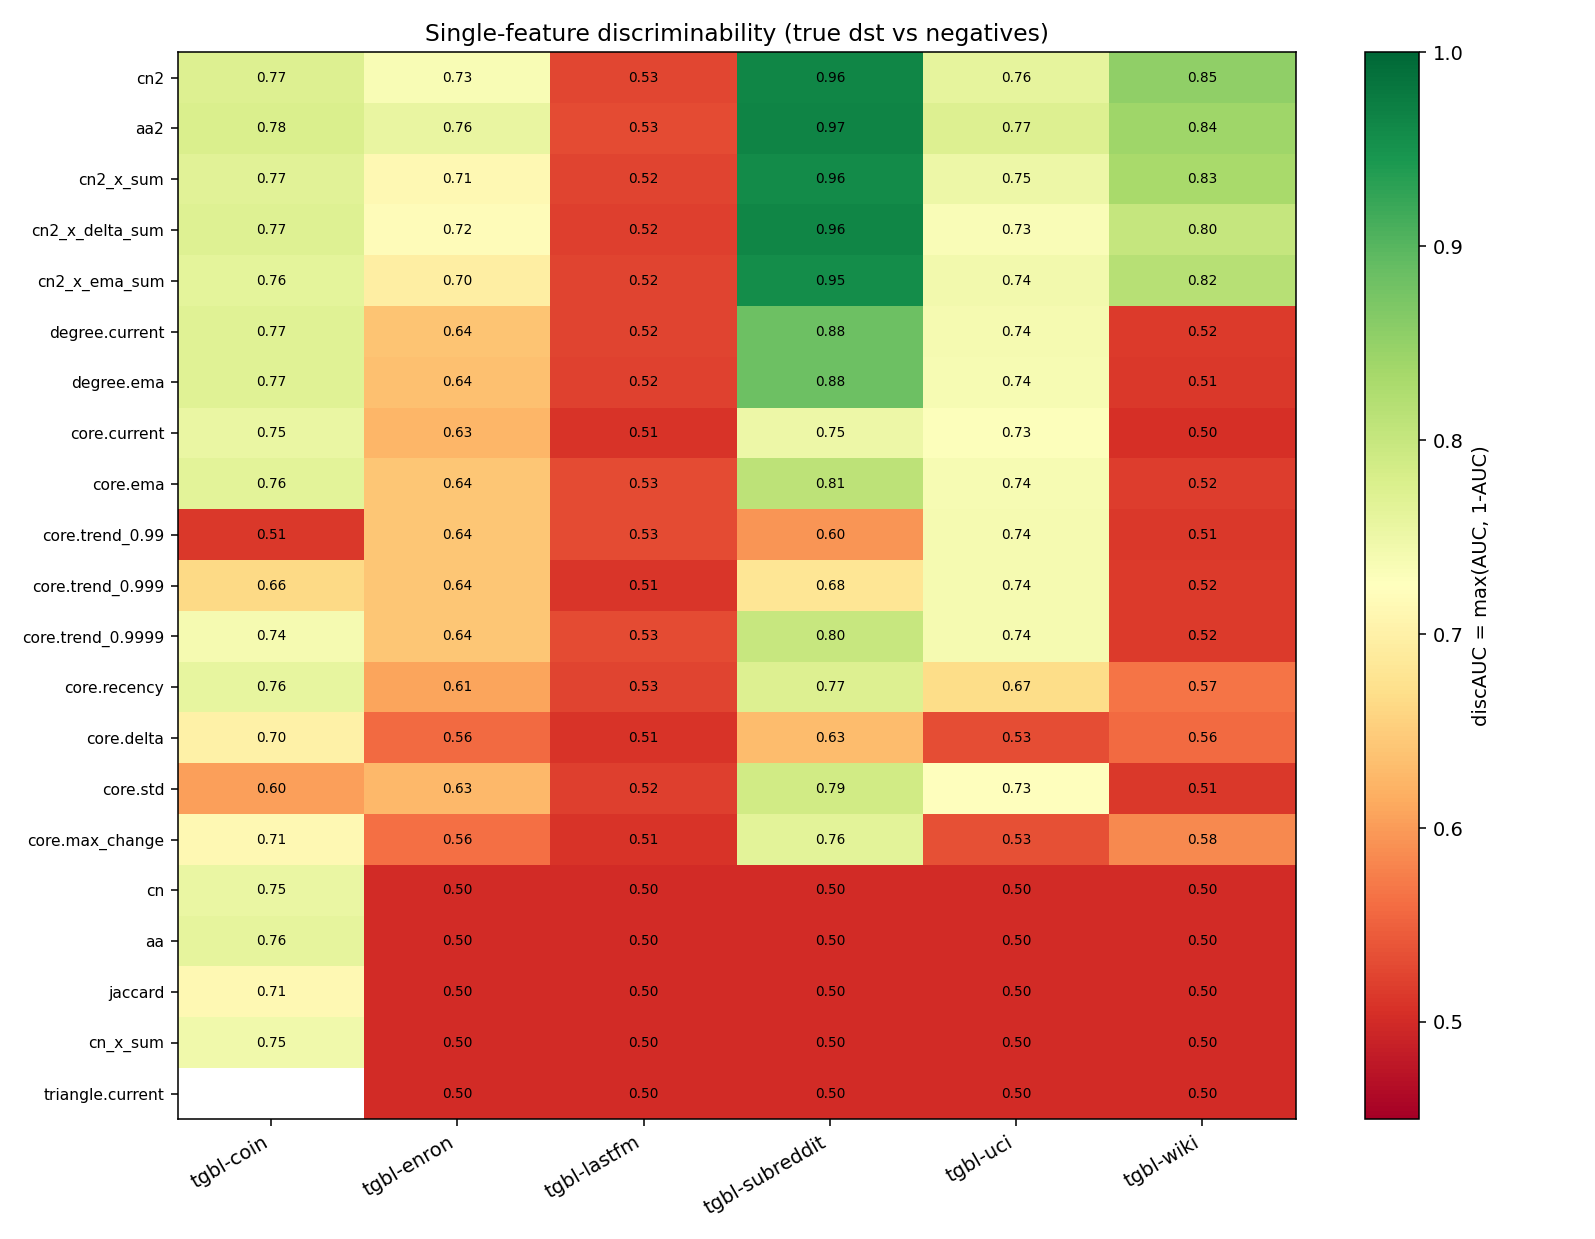
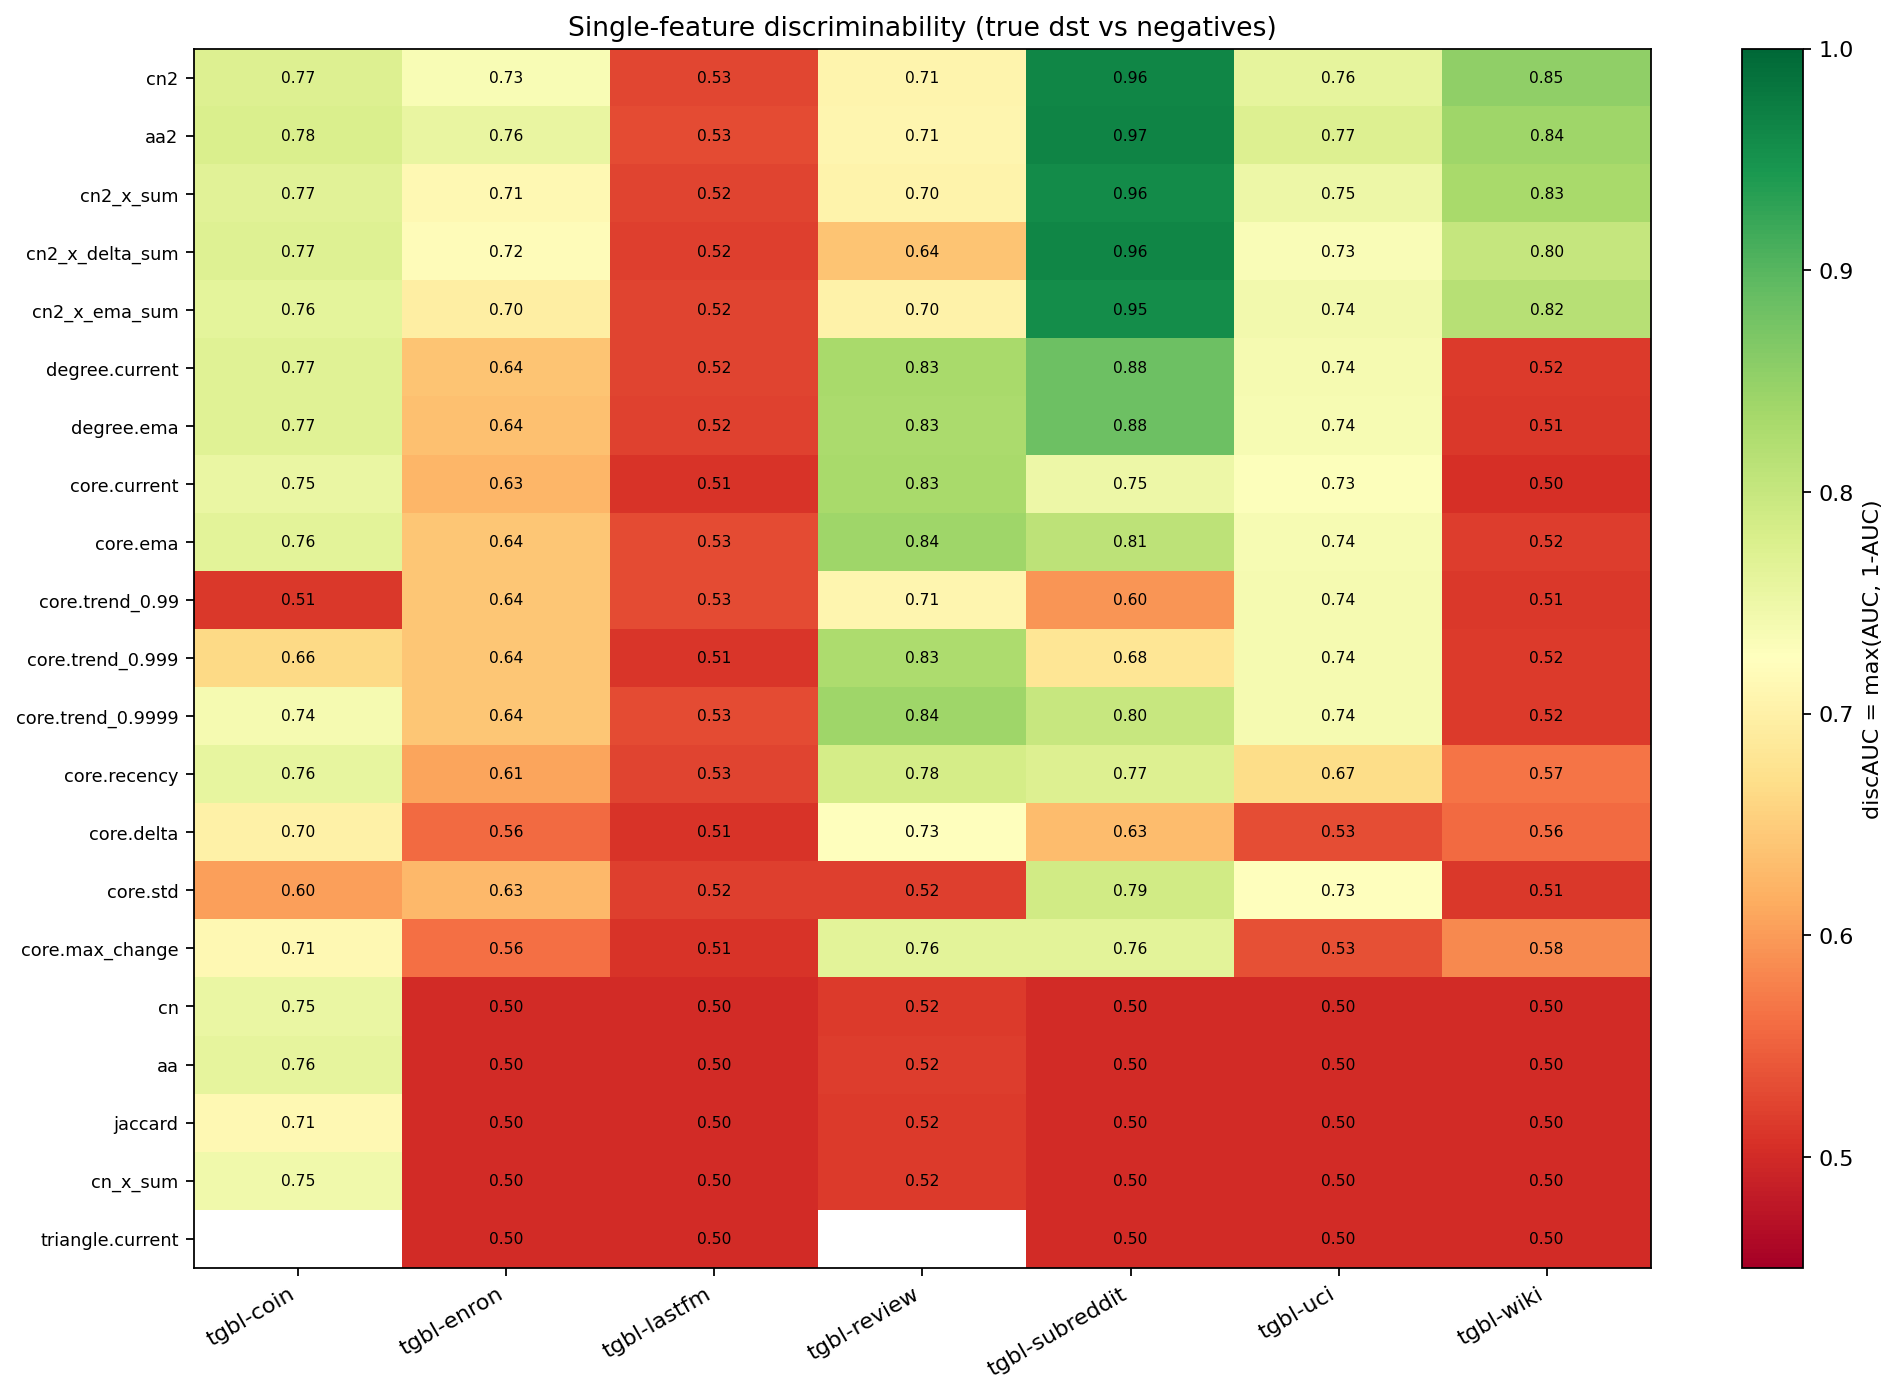
figures: unify on .drawio (editable) + .pdf (LaTeX) pairs; switch all \includegraphics to .pdf
Workflow goal (per user request): every coloured figure ships an
editable .drawio source AND a compiled .pdf next to it.  main.tex
includes only .pdf, so the user can edit drawio offline, export to
PDF over the existing file, and recompile without touching .tex.

- fig_running:        .tex -> .pdf (rendered standalone via tectonic);
                      main.tex: \input -> \includegraphics{...pdf}
- fig_arch:           .tex -> .pdf (rendered standalone via tectonic);
                      main.tex: \input -> \includegraphics{...pdf}
- fig_discauc_heatmap: .png -> .pdf (re-rendered from matplotlib for
                      vector output); main.tex updated.
- fig_gains:          inline TikZ block in main.tex externalised to
                      figures/fig_gains.tex, rendered to .pdf, and the
                      ~50-line inline block replaced with
                      \includegraphics{figures/fig_gains.pdf}.
                      Bar chart also now includes the enron 3-seed
                      bar (+0.7 pts) alongside uci star (+0.6).
- fig_discauc.pdf already existed; .drawio companion added earlier.

Table column-width audit (single vs two-column):
  tab:discauc (5 cols)       single \begin{table}        OK
  tab:complexity (3 cols)    single                         OK
  tab:vs (3 cols)            single                         OK
  tab:datasets (5 cols)      single                         OK
  tab:swapin (7 cols)        \begin{table*} (full width)  CORRECT
[…]

diff --git a/paper_ol/figures/fig_gains.tex b/paper_ol/figures/fig_gains.tex
@@ -1,0 +1,56 @@
+% Figure 5 — per-dataset Hawkeye swap-in gain over the DyGFormer (cooccur)
+% baseline.  Now also includes enron 3-seed (+0.7 pts).
+%
+% Bars colour-coded by sign:
+%   teal!*  = gain (different darknesses for legacy vs multi-seed verified)
+%   orange!*= loss (boundary datasets)
+% Stars (★) mark multi-seed-validated entries.
+\begin{tikzpicture}[every node/.style={font=\footnotesize},x=0.4cm,y=0.7cm]
+  % --- grid + axis ---
+  \foreach \x in {-8,-4,0,4,8}{%
+    \draw[gray!25,very thin] (\x,0.4) -- (\x,-5.8);%
+    \node[gray!55] at (\x,0.65) {\tiny $\x$};}
+  \draw[gray!60, line width=0.6pt] (0,0.4) -- (0,-5.8);
+  \node[anchor=south] at (0,0.85) {\small Hawkeye swap-in gain over cooccur (pts)};
+
+  % CanParl +9.0 (current code, single seed — multi-seed sweep running)
+  \fill[teal!75]  (0,-0.15) rectangle (9.0,-0.65);
+  \node[anchor=west,white] at (0.2,-0.4) {\textbf{+9.0}};
+  \node[anchor=east] at (-0.3,-0.4) {\texttt{CanParl}};
+  \node[anchor=west,gray!60] at (9.2,-0.4) {\scriptsize\ (current code, 1 seed)};
+
+  % wiki +2.8 (legacy single-seed)
+  \fill[teal!55]  (0,-1.05) rectangle (2.8,-1.55);
+  \node[anchor=west] at (3.0,-1.3) {\textbf{+2.8}};
+  \node[anchor=east] at (-0.3,-1.3) {\texttt{wiki}};
+  \node[anchor=west,gray!60] at (4.2,-1.3) {\scriptsize\ (legacy, 1 seed)};
+
+  % enron +0.7 (3-seed multi-seed verified)
+  \fill[teal!95]  (0,-1.95) rectangle (0.7,-2.45);
+  \node[anchor=west] at (0.9,-2.2) {\textbf{+0.7}};
+  \node[anchor=east] at (-0.3,-2.2) {\texttt{enron}$^{\bigstar}$};
+  \node[anchor=west,gray!60] at (2.6,-2.2) {\scriptsize\ (3-seed, std$=$0.001)};
+
+  % uci +0.6 (3-seed multi-seed verified)
+  \fill[teal!95]  (0,-2.85) rectangle (0.6,-3.35);
+  \node[anchor=west] at (0.8,-3.1) {\textbf{+0.6}};
+  \node[anchor=east] at (-0.3,-3.1) {\texttt{uci}$^{\bigstar}$};
+  \node[anchor=west,gray!60] at (2.5,-3.1) {\scriptsize\ (3-seed, gap$>$6$\sigma$)};
+
+  % USLegis -5.4 (boundary)
+  \fill[orange!75]  (-5.4,-3.75) rectangle (0,-4.25);
+  \node[anchor=east] at (-5.6,-4.0) {\textbf{$-5.4$}};
+  \node[anchor=west] at (0.3,-4.0) {\texttt{USLegis} (near-complete)};
+
+  % mooc -8.4 (legacy)
+  \fill[orange!55]  (-8.4,-4.65) rectangle (0,-5.15);
+  \node[anchor=east] at (-8.6,-4.9) {\textbf{$-8.4$}};
+  \node[anchor=west] at (0.3,-4.9) {\texttt{mooc} (legacy, 1 seed)};
+
+  % --- legend ---
+  \fill[teal!75] (-9.5,-5.75) rectangle (-8.7,-5.55);
+  \node[anchor=west] at (-8.5,-5.65) {\scriptsize gain on non-degenerate};
+  \fill[orange!75] (-4.5,-5.75) rectangle (-3.7,-5.55);
+  \node[anchor=west] at (-3.5,-5.65) {\scriptsize loss on boundary};
+  \node[anchor=west,gray!50!black] at (1.5,-5.65) {\scriptsize $\bigstar$ = multi-seed validated};
+\end{tikzpicture}

diff --git a/paper_ol/main.tex b/paper_ol/main.tex
@@ -156,7 +156,7 @@ both cheap to read and far more discriminative.
 
 \begin{figure}[t]
 \centering
-\input{figures/fig_running}
+\includegraphics[width=0.98\columnwidth]{figures/fig_running.pdf}
 \caption{Running example (used throughout the paper). In a corporate email
 network, \emph{Alice} ($u$) and \emph{Bob} ($v$) have never emailed each
 other, so the 1-hop common-neighbour count is $\mathrm{CN}=0$; a
@@ -472,7 +472,7 @@ no better than random ($0.50$); 2-hop bridges reach discAUC $0.73$--$0.96$.}
 
 \begin{figure*}[t]
 \centering
-\includegraphics[width=0.86\textwidth]{figures/fig_discauc_heatmap.png}
+\includegraphics[width=0.86\textwidth]{figures/fig_discauc_heatmap.pdf}
 \caption{Full single-feature discriminability sweep: $21$ candidate
 features (rows) $\times$ $6$ datasets (columns). The bottom block
 (\texttt{cn}, \texttt{aa}, \texttt{jaccard}, \texttt{cn\_x\_sum},
@@ -581,7 +581,7 @@ link score.
 
 \begin{figure*}[t]
 \centering
-\input{figures/fig_arch}
+\includegraphics[width=0.96\textwidth]{figures/fig_arch.pdf}
 \caption{\method per-batch timing, threaded with the Alice/Bob running
 example. Gray boxes are CPU work (Cohesion Cache + slot-feature
 extraction), blue boxes are GPU work (Cohesion Slot Encoder + unchanged
@@ -1076,49 +1076,7 @@ is clearly above $0.5$.
 
 \begin{figure}[t]
 \centering
-\begin{tikzpicture}[every node/.style={font=\footnotesize},x=0.4cm,y=0.7cm]
-  % grid + axis
-  \foreach \x in {-8,-4,0,4,8}{%
-    \draw[gray!25,very thin] (\x,0.4) -- (\x,-5.0);%
-    \node[gray!55] at (\x,0.65) {\tiny $\x$};}
-  \draw[gray!60, line width=0.6pt] (0,0.4) -- (0,-5.0);
-  \node[anchor=south] at (0,0.85) {\small \method swap-in gain over cooccur (pts)};
-
-  % bars: each row -- (y, gain, color, label, note)
-  % CanParl +9.0 (current code, single seed)
-  \fill[teal!75]  (0,-0.15) rectangle (9.0,-0.65);
-  \node[anchor=west,white] at (0.2,-0.4) {\textbf{+9.0}};
-  \node[anchor=east] at (-0.3,-0.4) {\texttt{CanParl}};
-  \node[anchor=west,gray!60] at (9.2,-0.4) {\scriptsize\ (current code, 1 seed)};
-
-  % wiki +2.8 (legacy)
-  \fill[teal!55]  (0,-1.05) rectangle (2.8,-1.55);
-  \node[anchor=west] at (3.0,-1.3) {\textbf{+2.8}};
-  \node[anchor=east] at (-0.3,-1.3) {\texttt{wiki}};
-  \node[anchor=west,gray!60] at (4.2,-1.3) {\scriptsize\ (legacy, 1 seed)};
-
-  % uci +0.6 (3-seed, multi-seed verified)
-  \fill[teal!95]  (0,-1.95) rectangle (0.6,-2.45);
-  \node[anchor=west] at (0.8,-2.2) {\textbf{+0.6}};
-  \node[anchor=east] at (-0.3,-2.2) {\texttt{uci}$^{\bigstar}$};
-  \node[anchor=west,gray!60] at (2.5,-2.2) {\scriptsize\ (3-seed, std$\le$0.001, $\!>\!6\sigma$)};
-
-  % USLegis -5.4 (boundary)
-  \fill[orange!75]  (-5.4,-2.85) rectangle (0,-3.35);
-  \node[anchor=east] at (-5.6,-3.1) {\textbf{$-5.4$}};
-  \node[anchor=west] at (0.3,-3.1) {\texttt{USLegis} (near-complete)};
-
-  % mooc -8.4 (legacy)
-  \fill[orange!55]  (-8.4,-3.75) rectangle (0,-4.25);
-  \node[anchor=east] at (-8.6,-4.0) {\textbf{$-8.4$}};
-  \node[anchor=west] at (0.3,-4.0) {\texttt{mooc} (legacy, 1 seed)};
-
-  % legend
-  \fill[teal!75] (-9.5,-4.85) rectangle (-8.7,-4.65);
-  \node[anchor=west] at (-8.5,-4.75) {\scriptsize gain on non-degenerate};
-  \fill[orange!75] (-4.5,-4.85) rectangle (-3.7,-4.65);
-  \node[anchor=west] at (-3.5,-4.75) {\scriptsize loss on boundary};
-\end{tikzpicture}
+\includegraphics[width=0.98\columnwidth]{figures/fig_gains.pdf}
 \caption{Per-dataset \method swap-in gain over the DyGFormer (cooccur)
 baseline. Test AP for DGB datasets; test MRR for \texttt{wiki}.
 $\bigstar$ \texttt{uci} is 3-seed multi-seed validated; the gap to